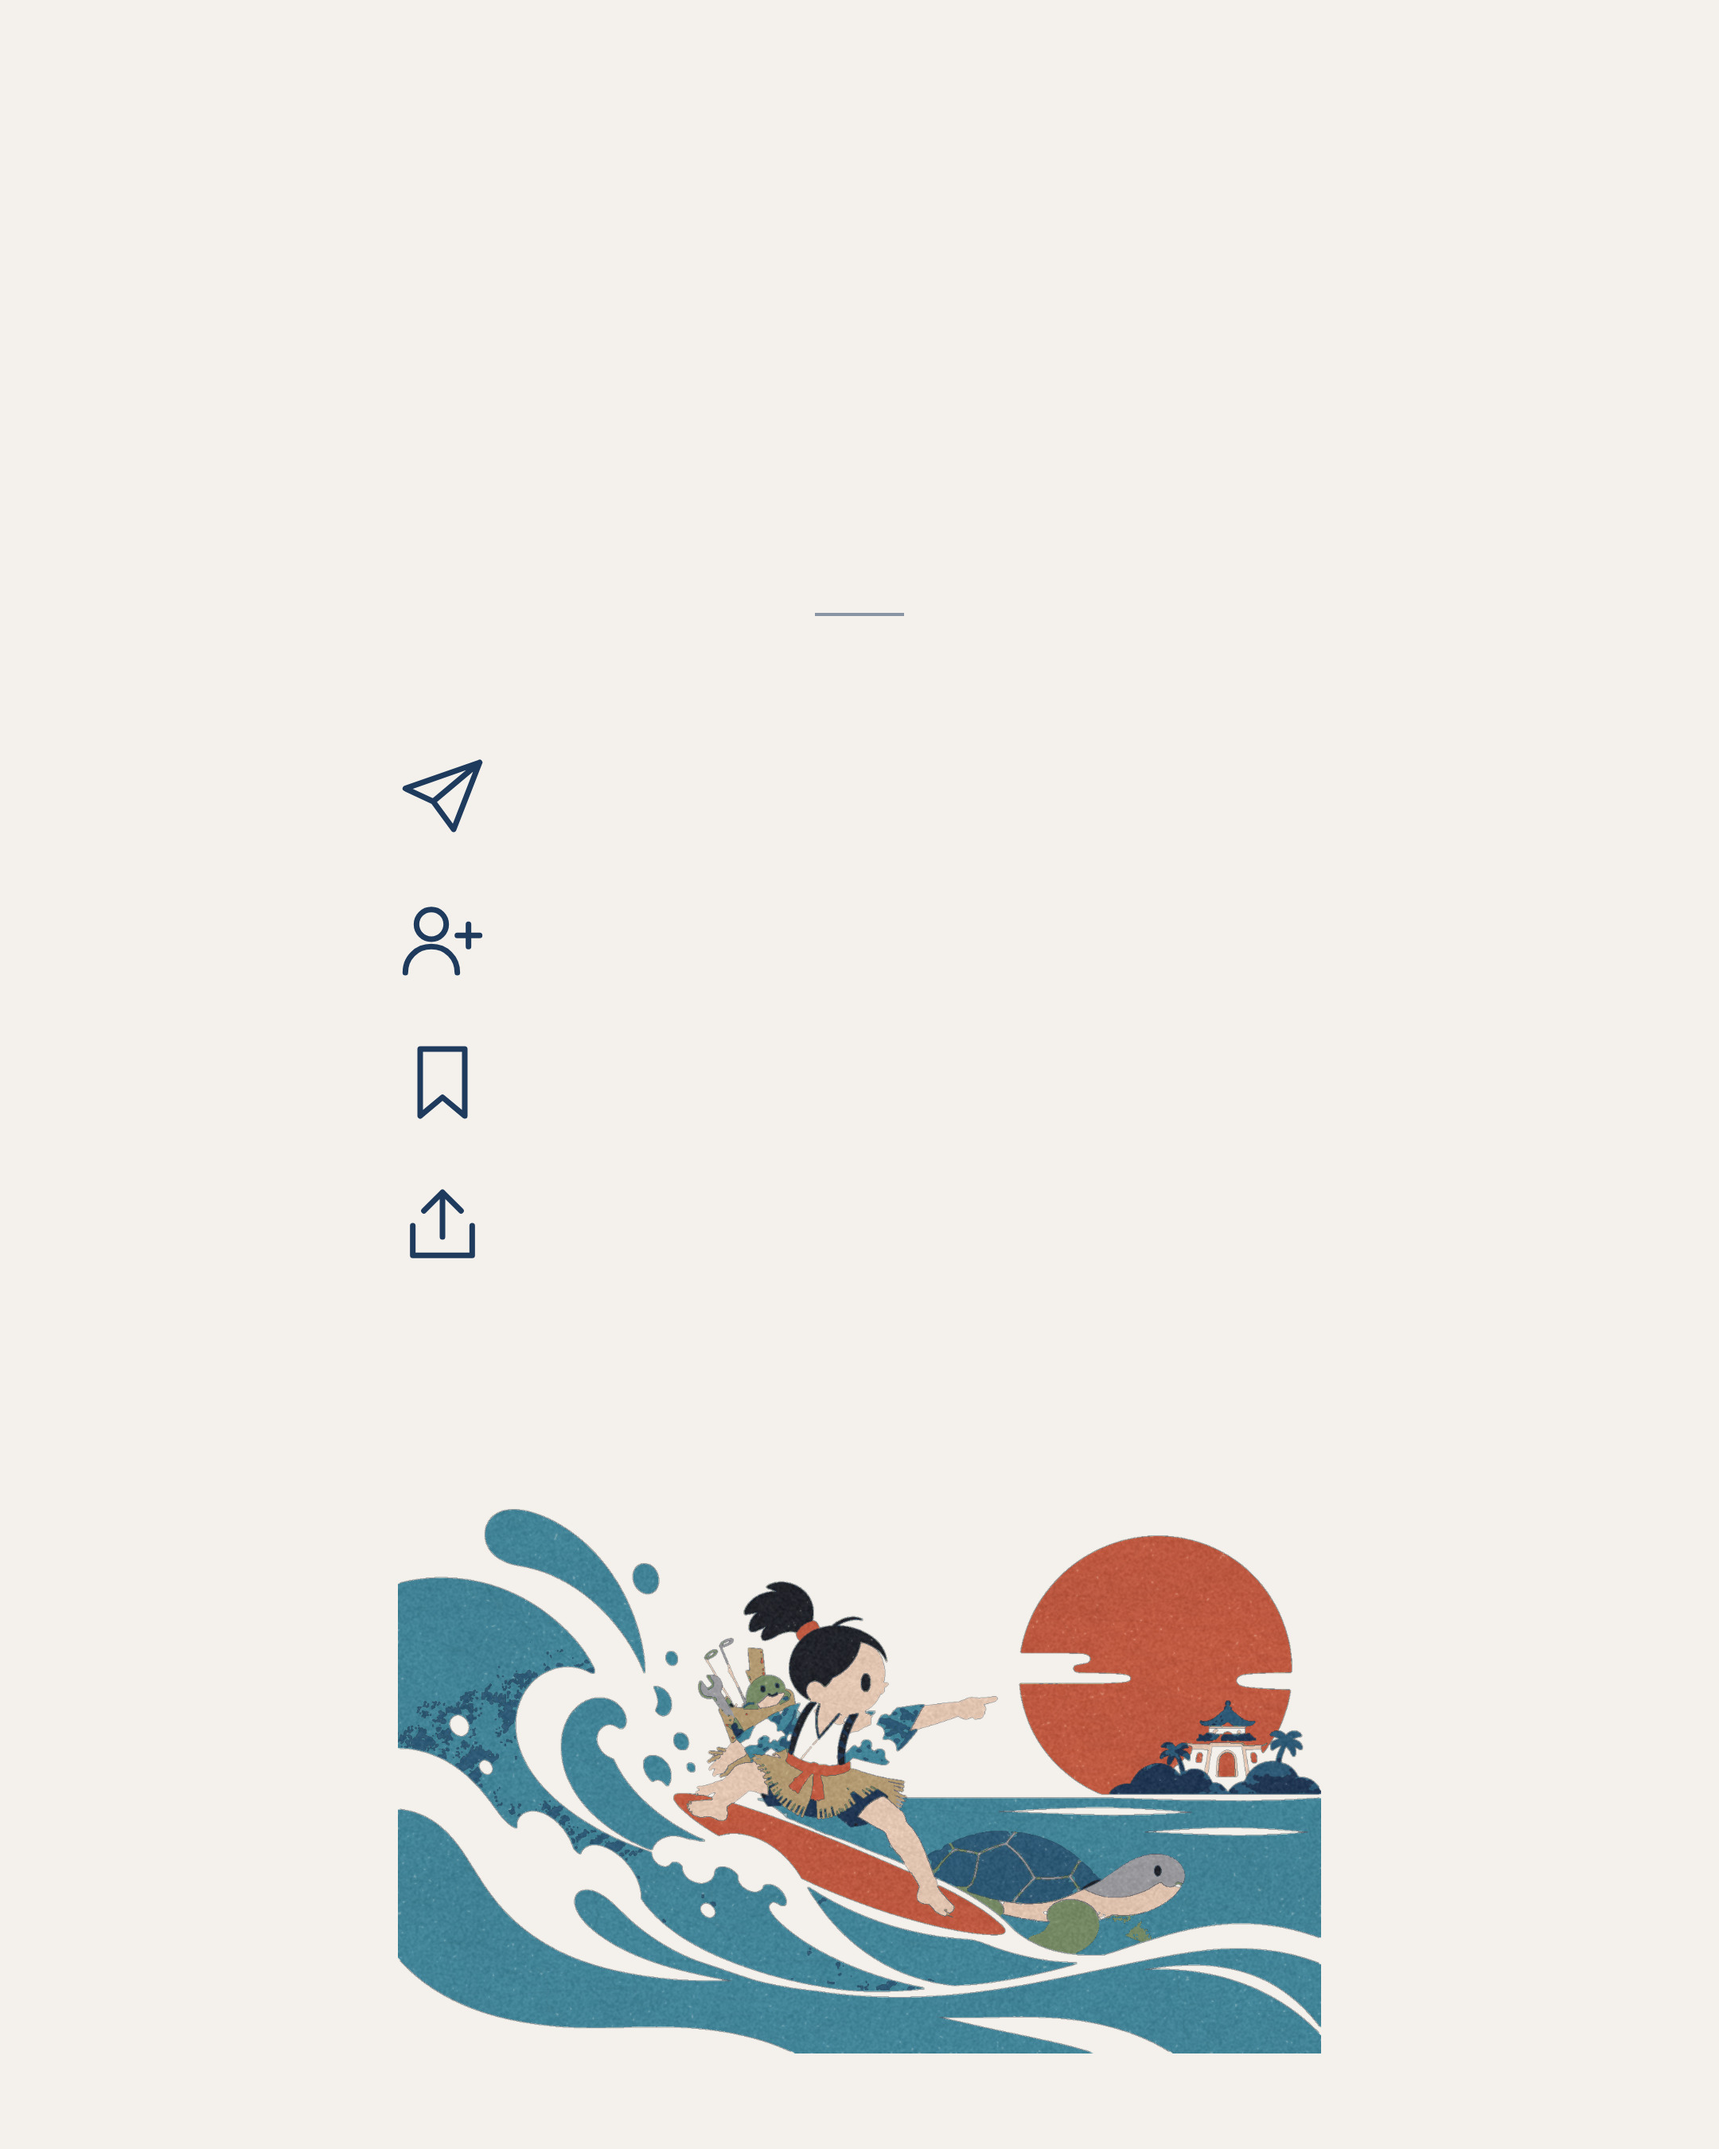
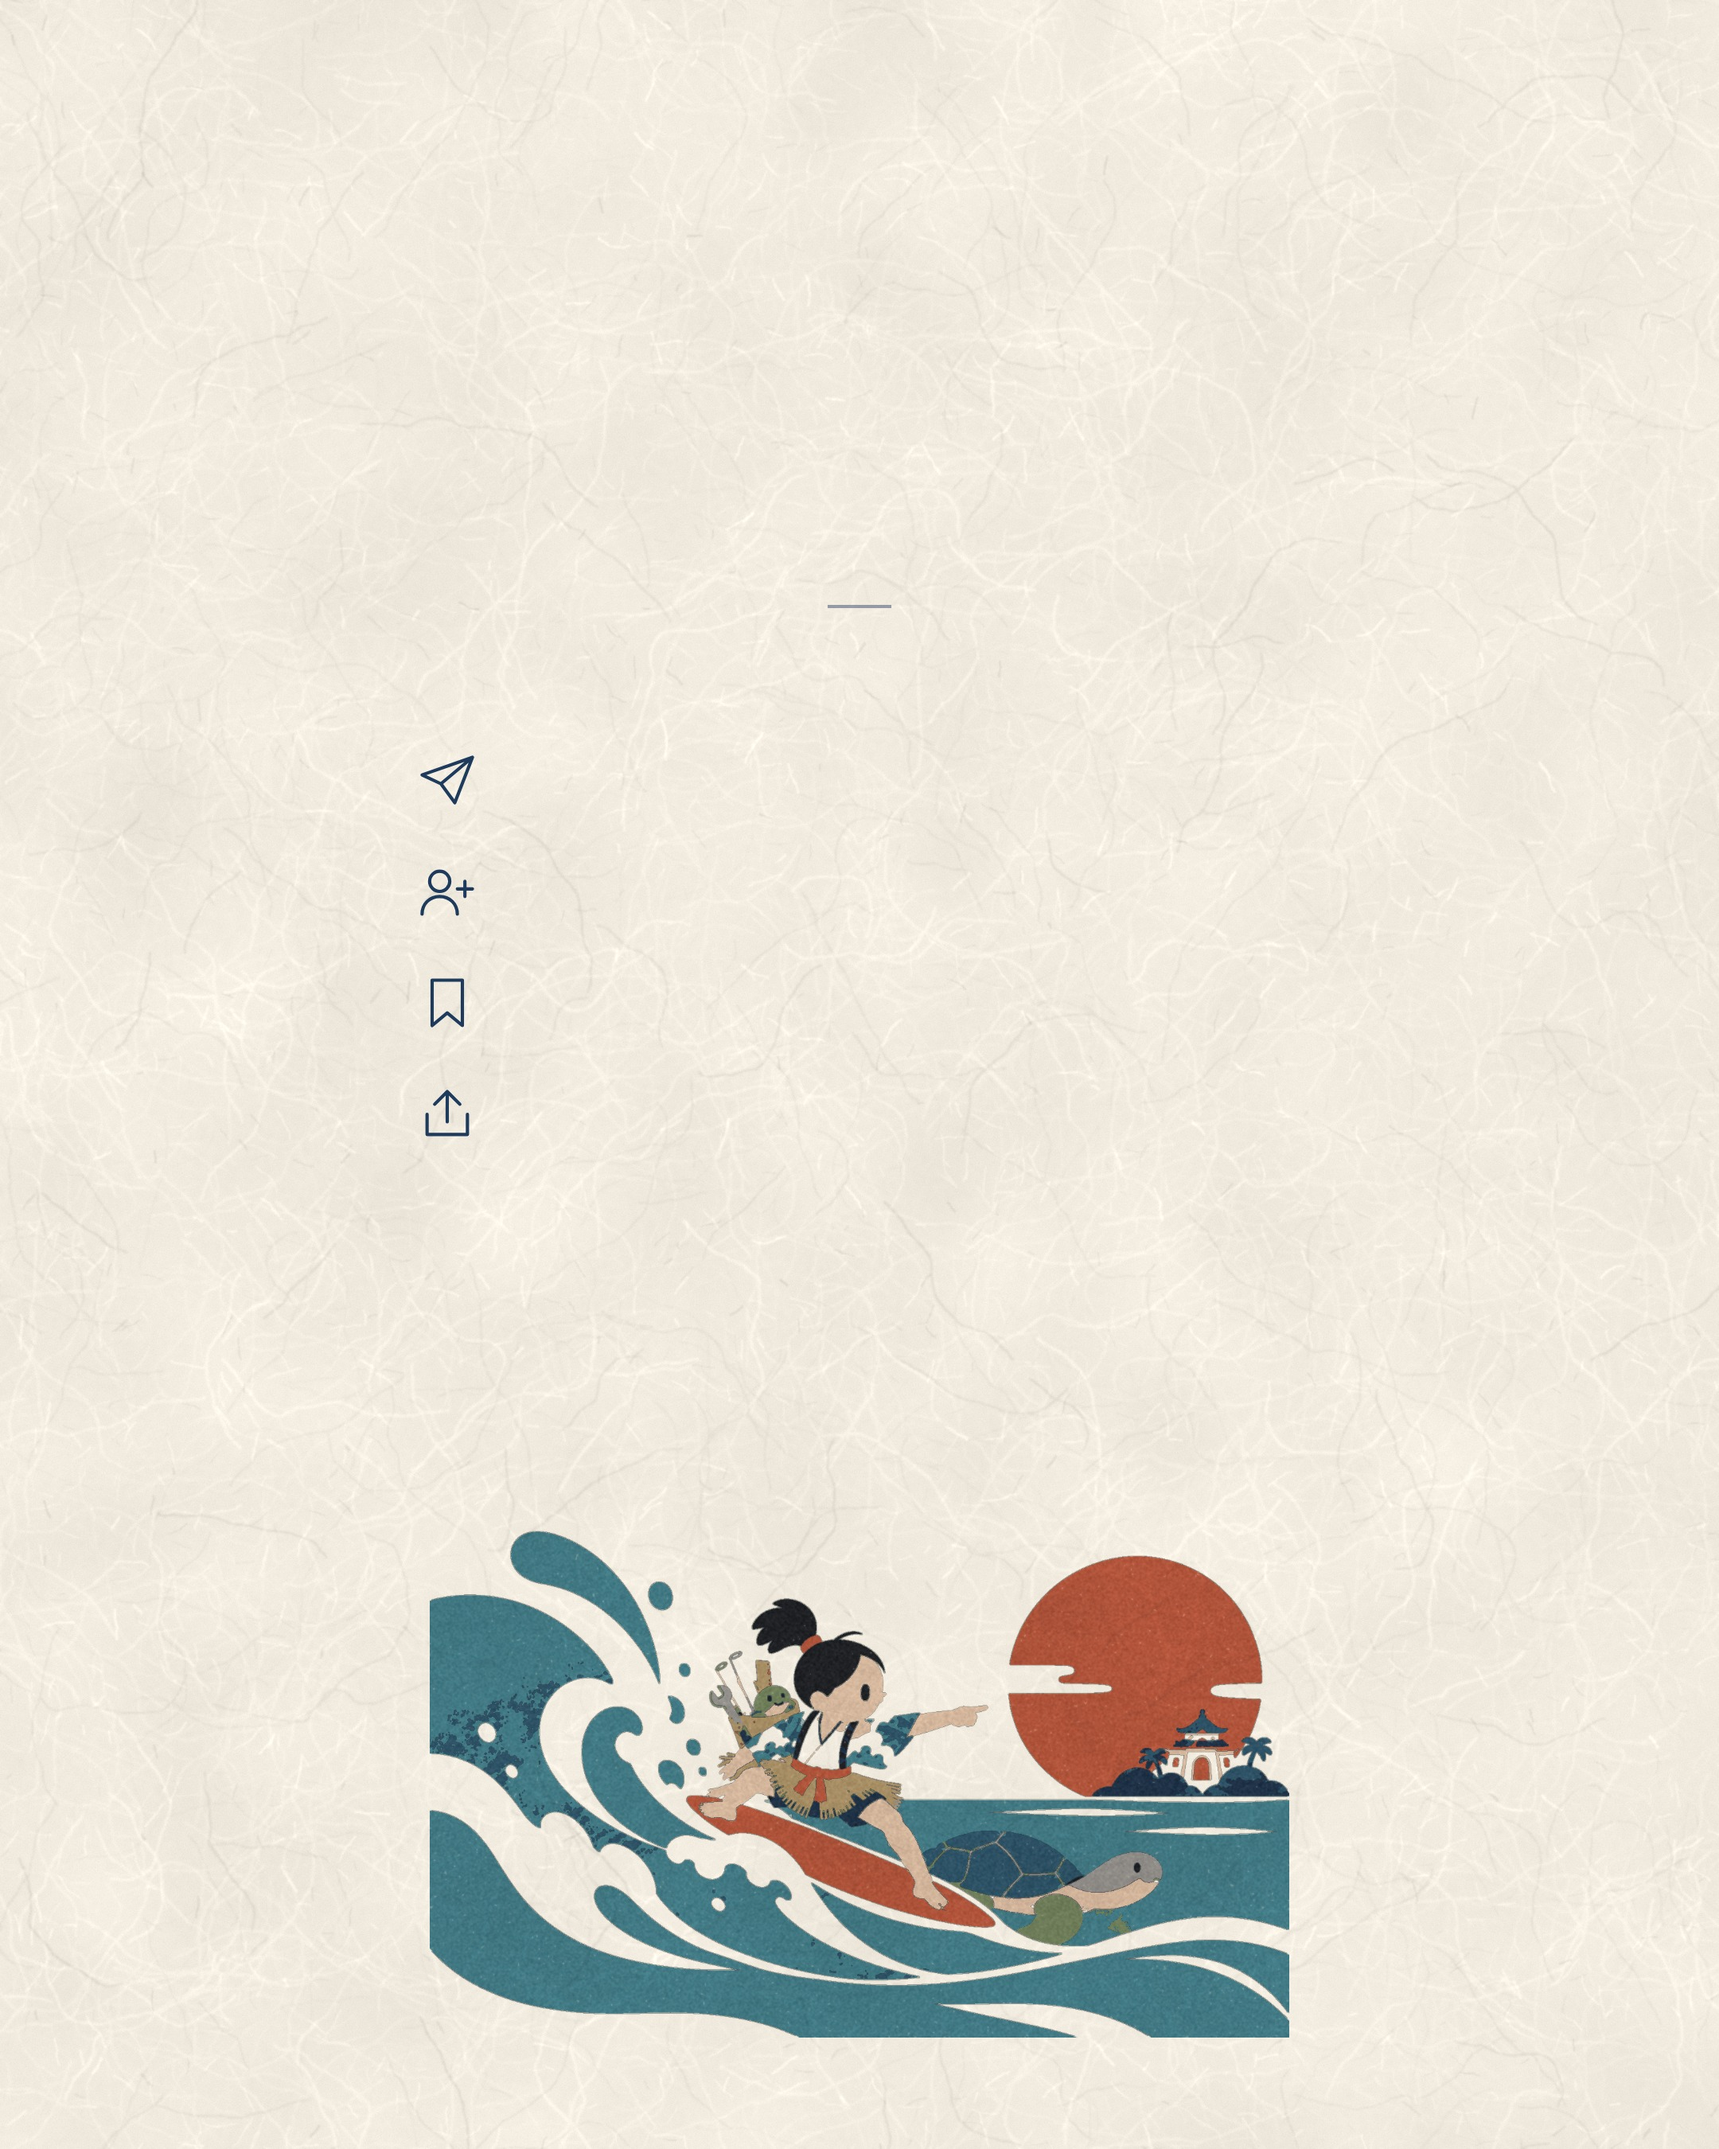
Instagram closing slide: washi paper background
Claude-Session: https://claude.ai/code/session_018kEBoUjPf4arsee4JEG76P

Changed region(s): [[0.2171, 0.6844, 0.7755, 0.9644], [0.2171, 0.3422, 0.2792, 0.5289], [0.2481, 0.56, 0.2792, 0.5911]]

diff --git a/nami-website/design/instagram/last/make-last-bg.py b/nami-website/design/instagram/last/make-last-bg.py
@@ -1,17 +1,18 @@
-# Background for the editable closing slide: icons, rule and illustration only.
+# Background for the editable closing slide: washi paper, icons, rule and illustration.
 # The heading and the four action lines are live Canva text placed over it.
 R="/home/user/-/nami-website"
-I=f"{R}/design/instagram/last/surfer-woodblock-cut.png"
+D=f"{R}/design/instagram/last"
+I=f"{D}/surfer-woodblock-cut.png"
 SEND='<path d="M22 3 9.5 13.5M22 3l-7 18-5.5-7.5L2 10z"/>'
 FOLLOW='<circle cx="9" cy="8" r="4"/><path d="M2 21c0-4 3-7 7-7s7 3 7 7M19 8v6M16 11h6"/>'
 SAVE='<path d="M6 3h12v18l-6-5-6 5z"/>'
 SHARE='<path d="M4 12v8h16v-8M12 3v12M7 8l5-5 5 5"/>'
-ys=[500,590,680,770]
-icons="".join(f'<svg style="top:{y-28}px" viewBox="0 0 24 24">{s}</svg>' for s,y in zip([SEND,FOLLOW,SAVE,SHARE],ys))
+ys=[490,560,630,700]
+icons="".join(f'<svg style="top:{y-19}px" viewBox="0 0 24 24">{s}</svg>' for s,y in zip([SEND,FOLLOW,SAVE,SHARE],ys))
 open("final_bg.html","w").write(f'''<!doctype html><html><head><meta charset=utf-8><style>
 *{{margin:0;padding:0}}body{{width:1080px;height:1350px}}
-.s{{width:1080px;height:1350px;position:relative;background:#f4f1ec}}
-svg{{position:absolute;left:250px;width:56px;height:56px;fill:none;stroke:#1e3a5c;stroke-width:1.5;stroke-linejoin:round;stroke-linecap:round}}
-.rule{{position:absolute;left:512px;top:385px;width:56px;height:1.5px;background:#1e3a5c;opacity:.5}}
-.ill{{position:absolute;left:250px;bottom:60px;width:580px;height:387px;background:url(file://{I}) center/contain no-repeat;filter:saturate(.85)}}
+.s{{width:1080px;height:1350px;position:relative;background:url(file://{D}/washi.png) 0 0/1080px 1350px}}
+svg{{position:absolute;left:262px;width:38px;height:38px;fill:none;stroke:#1e3a5c;stroke-width:1.3;stroke-linejoin:round;stroke-linecap:round}}
+.rule{{position:absolute;left:520px;top:380px;width:40px;height:1.5px;background:#1e3a5c;opacity:.45}}
+.ill{{position:absolute;left:270px;bottom:70px;width:540px;height:360px;background:url(file://{I}) center/contain no-repeat;filter:saturate(.8);mix-blend-mode:multiply}}
 </style></head><body><div class="s"><div class="rule"></div>{icons}<div class="ill"></div></div></body></html>''')

diff --git a/nami-website/design/instagram/last/make-washi.py b/nami-website/design/instagram/last/make-washi.py
@@ -1,0 +1,26 @@
+# Washi paper texture for the closing slide background (2160x2700).
+import numpy as np
+from PIL import Image, ImageDraw, ImageFilter
+from scipy.ndimage import gaussian_filter
+W,H=2160,2700
+rng=np.random.default_rng(7)
+base=np.array([241,235,223],float)
+# uneven pulp: large soft clouds plus finer flecks
+m=gaussian_filter(rng.standard_normal((H,W)),45);m=m/np.abs(m).max()*7
+f=gaussian_filter(rng.standard_normal((H,W)),3);m+=f/np.abs(f).max()*3
+img=base[None,None,:]+m[...,None]
+# kozo fibres: thin wandering strands, long and short, light and dark
+def strands(n,lmin,lmax,a,blur):
+  d=Image.new("L",(W,H),0);dr=ImageDraw.Draw(d)
+  for _ in range(n):
+    x,y=rng.uniform(-50,W+50),rng.uniform(-50,H+50);ang=rng.uniform(0,np.pi*2)
+    pts=[(x,y)]
+    for _ in range(rng.integers(lmin,lmax)):
+      ang+=rng.normal(0,.15);x+=np.cos(ang)*4;y+=np.sin(ang)*4;pts.append((x,y))
+    dr.line(pts,fill=int(a*rng.uniform(.35,1)),width=int(rng.choice([1,1,2,2,3])))
+  return np.array(d.filter(ImageFilter.GaussianBlur(blur)),float)/255
+light=strands(2200,20,110,255,1.4)+strands(4000,3,12,255,1)
+dark=strands(700,20,90,255,1.2)+strands(1500,2,8,255,.9)
+img=img+light[...,None]*14-dark[...,None]*np.array([17,17,15])
+img+=rng.normal(0,1.8,(H,W,1))
+Image.fromarray(np.clip(img,0,255).astype(np.uint8)).save("washi.png")
